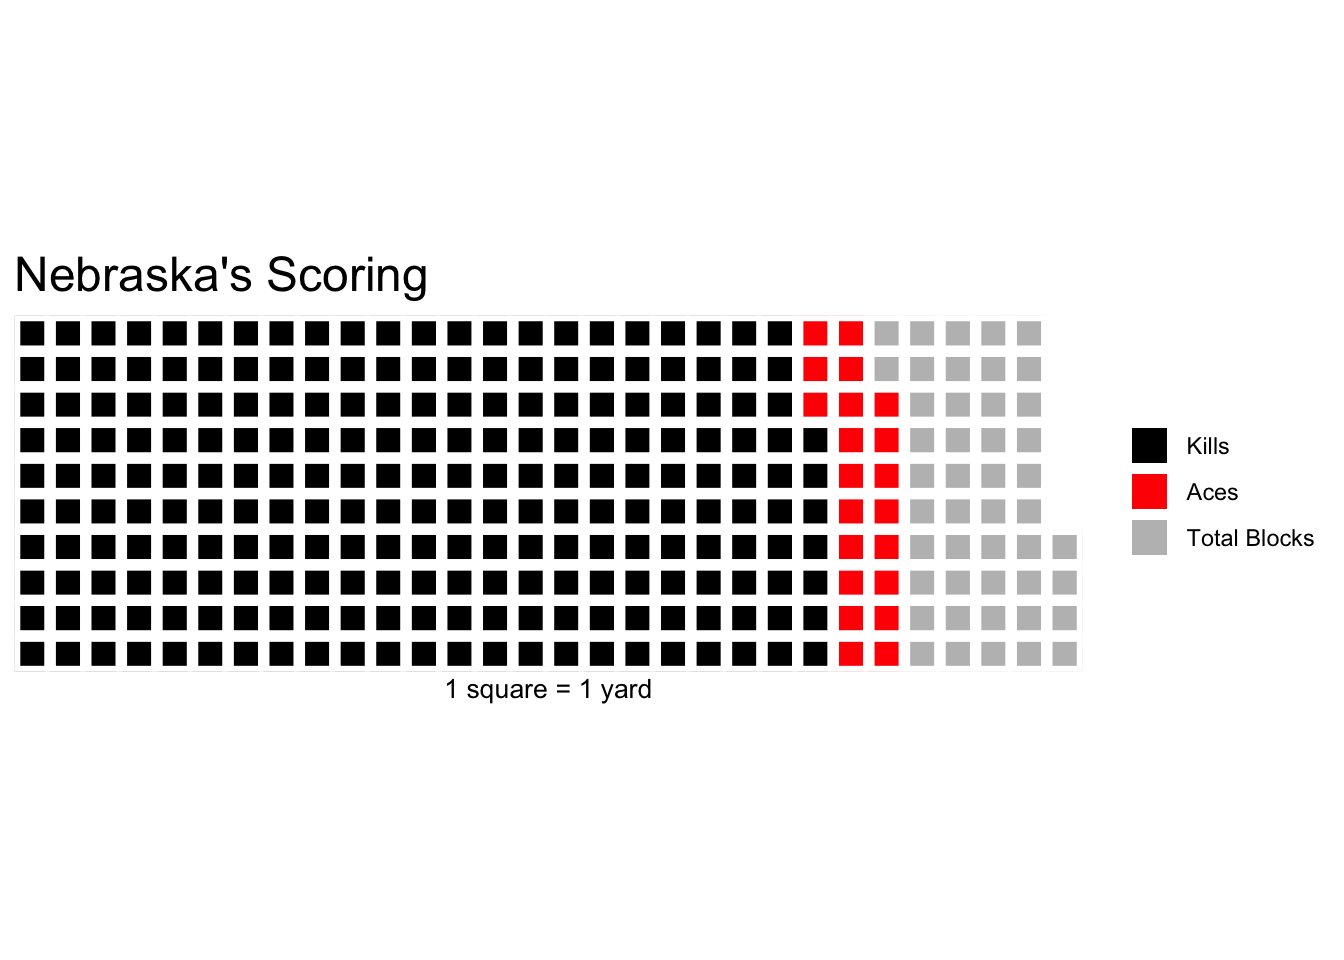
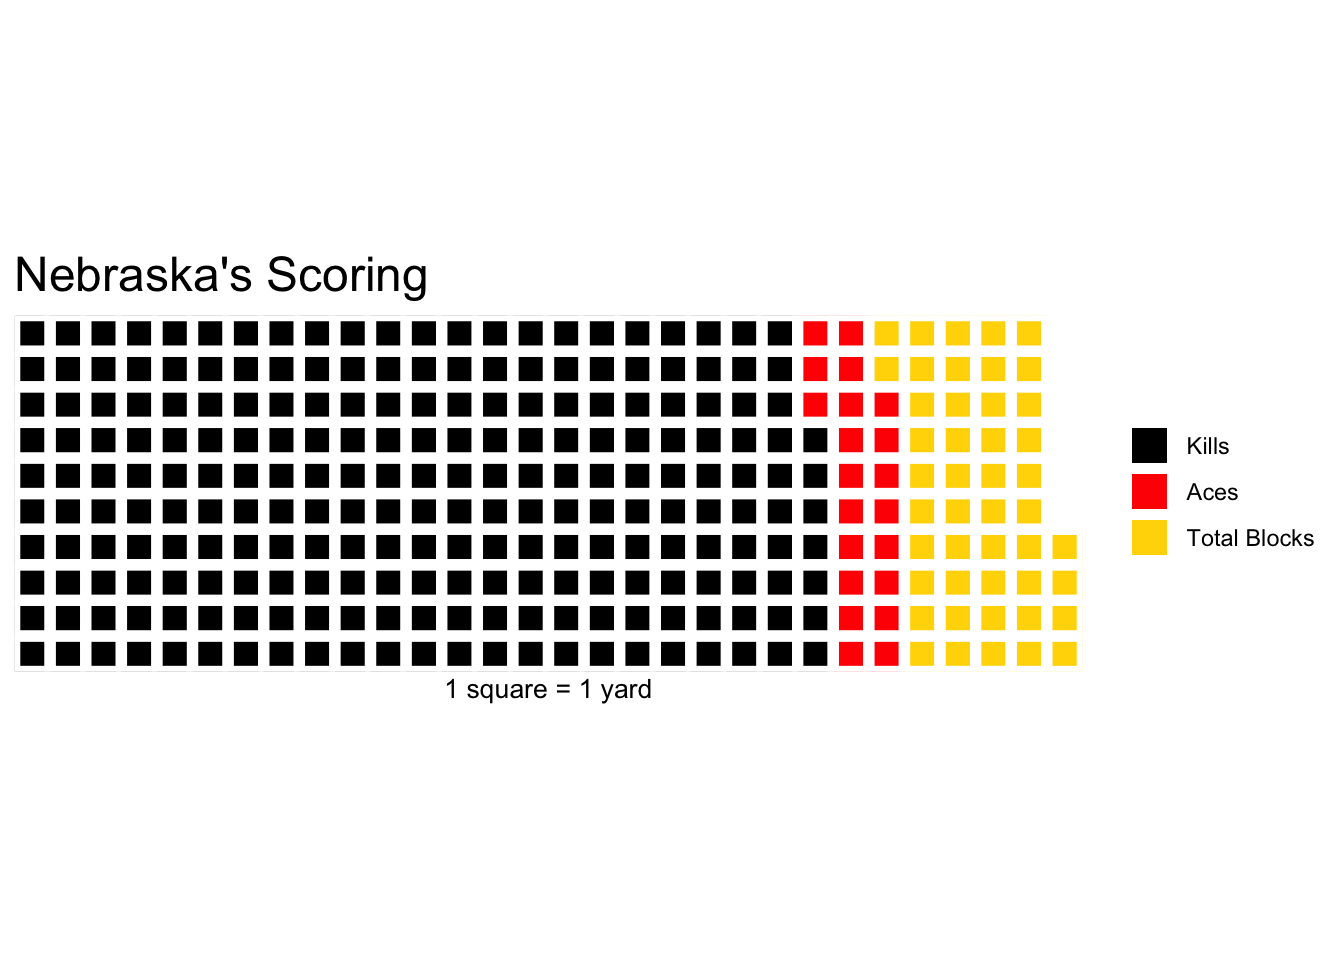
edit

Changed region(s): [[0.625, 0.3125, 0.8125, 0.7188], [0.8438, 0.5312, 0.875, 0.5938]]

diff --git a/2022/10/13/how-does-maryland-score-its-points/index.html b/2022/10/13/how-does-maryland-score-its-points/index.html
@@ -129,7 +129,7 @@
         rows = 10, 
         title=&quot;Nebraska&#39;s Scoring&quot;, 
         xlab=&quot;1 square = 1 yard&quot;, 
-        colors = c(&quot;black&quot;, &quot;red&quot;, &quot;gray&quot;)
+        colors = c(&quot;black&quot;, &quot;red&quot;, &quot;gold&quot;)
 )</code></pre>
 <p><img src="https://iadecker.github.io/2022/10/13/how-does-maryland-score-its-points/index_files/figure-html/unnamed-chunk-8-1.png" width="672" /></p>
 <p>#Comparing Maryland and Nebraska using the overlapping vectors (kills, aces, blocks) in the same chart.</p>
@@ -151,6 +151,7 @@
 #Does Maryland score its points differently than Nebraska?</p>
 <p>Yes, but not by much. Using offensive scoring only, Maryland seems to score more of its points in blocks and aces than Nebraska. It’s interesting to see how few of Nebraska’s points come from aces. Maybe they’re just really good at wearing other teams down and play a lot of long points. Or, they could just be really good at the net and get kills upon their opponent’s return.</p>
 <p>While both teams get a majority of their points from kills, the Cornhuskers seem to get more points from that metric than the Terps. Maryland might get more points from aces and blocks than Nebraska, but the latter is undefeated in conference play and 14-1 on the season, whereas Maryland is 1-5 in the B10 and 10-8 overall.</p>
+<p>Another thing to note is that this model, because it works with totals, gives Maryland an edge — the Terps have played more sets, so of course they have more stats; they’ve played more points.</p>
 
     </div>
   </article>
